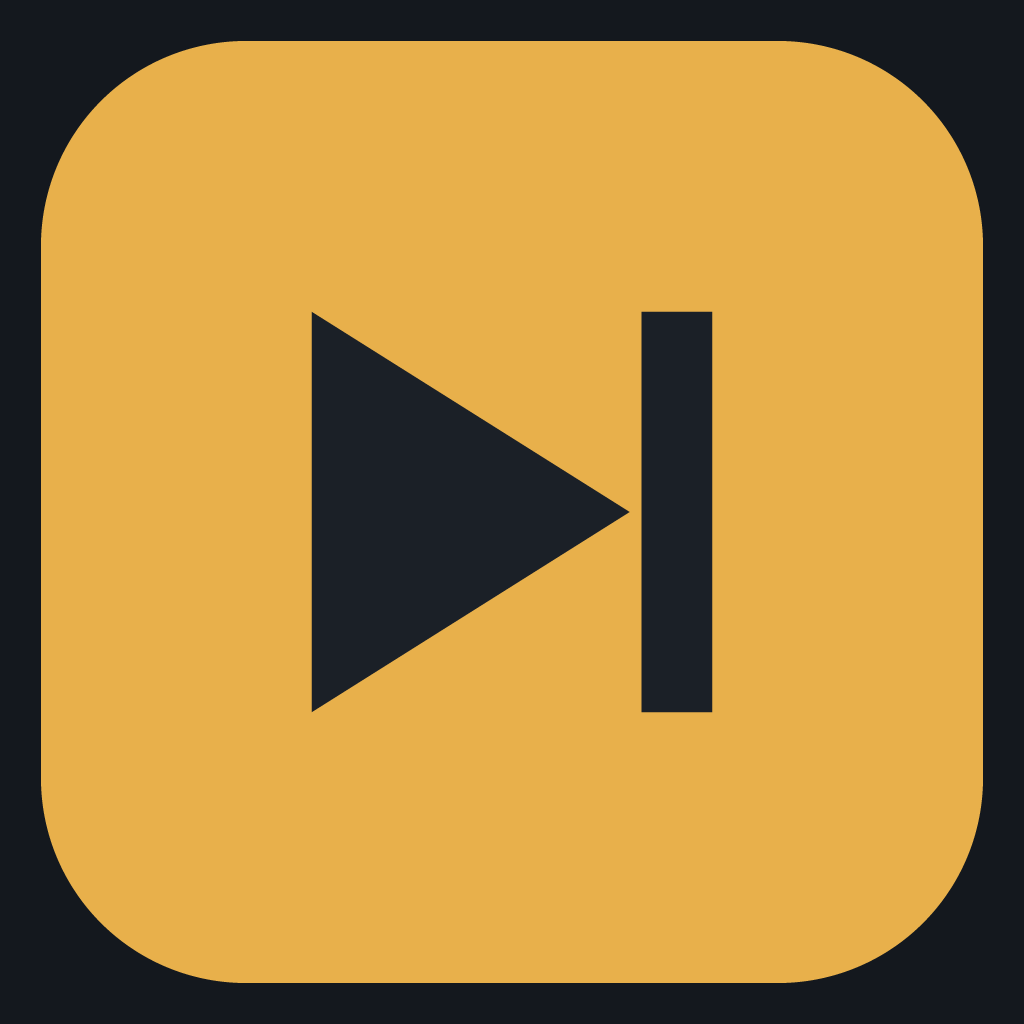
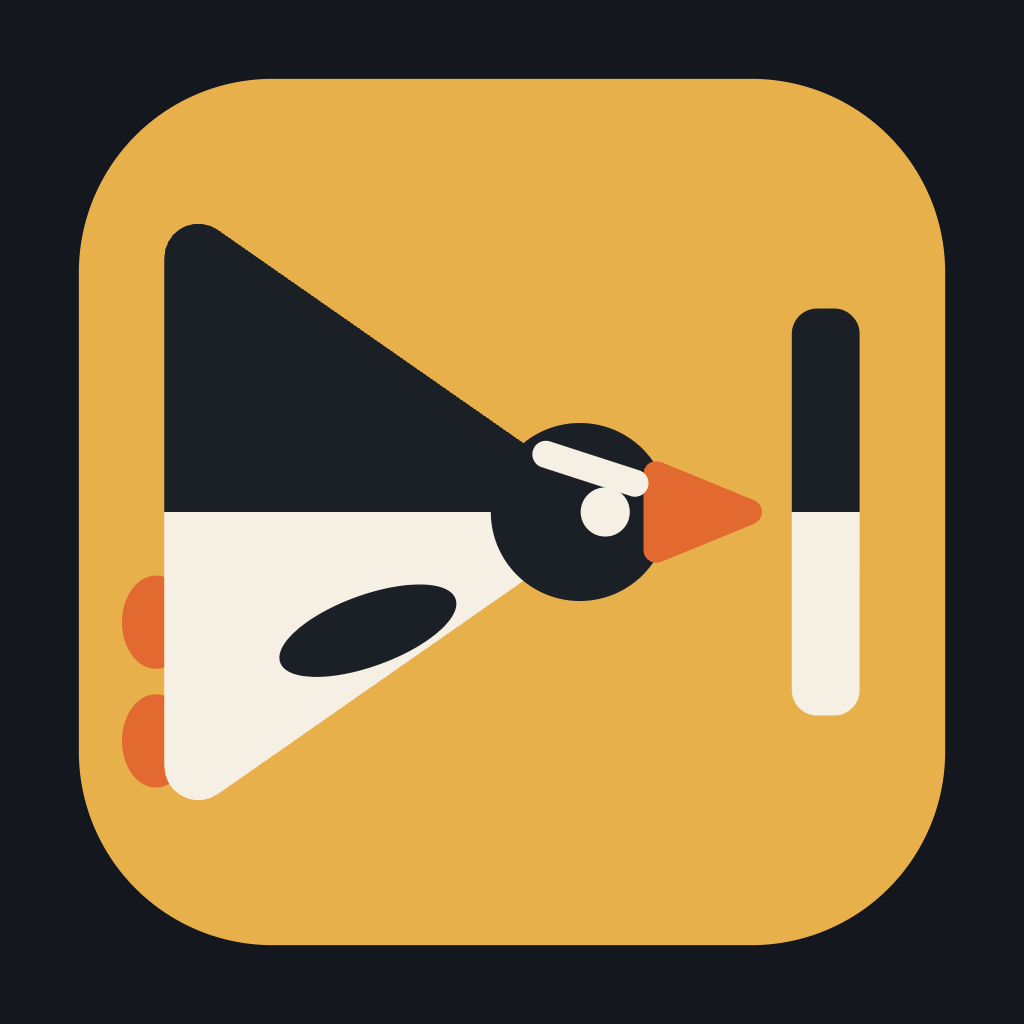
feat(brand): a penguin sliding forward as the skip glyph
The mark is now one drawing in tools/make-icons.mjs, rendered to every icon: the
amber key with the play triangle as a tuxedo penguin sliding forward on its
belly (round head, stern brow, orange beak pointing at the skip bar). Original
drawing, no one's character art. Also writes docs/brand/skipper.svg.

The controller's iOS icon pointed at the Expo template's default icon; it now
uses the same icon.png as everything else.

Changed region(s): [[0.0312, 0.0312, 0.9688, 0.9688], [0.375, 0.3438, 0.4688, 0.4062]]

diff --git a/apps/controller/app.config.ts b/apps/controller/app.config.ts
@@ -24,7 +24,7 @@ const config: ExpoConfig = {
   ios: {
     bundleIdentifier: 'dev.sandoramix.skipper',
     buildNumber: String(versionCode),
-    icon: './assets/expo.icon',
+    icon: './assets/images/icon.png',
     infoPlist: {
       NSLocalNetworkUsageDescription:
         'Skipper cerca il ricevitore sulla tua rete Wi-Fi per comandarlo senza passare da internet.',

diff --git a/docs/DEVELOPMENT.md b/docs/DEVELOPMENT.md
@@ -161,6 +161,15 @@ Things that differ from Chrome: the `WebView` node has no title text, and
 has no effect (see STATUS.md). Check what a click really did by dumping again
 (`url_bar` text, `episode-comment`, `player-cover`), not by the ack.
 
+## Icons
+
+Every icon is rendered from one drawing in `tools/make-icons.mjs` (the amber key
+with a penguin sliding forward, its body the play triangle, its beak pointing at the
+skip bar). `node tools/make-icons.mjs` rewrites the extension's and the
+controller's PNGs (it needs puppeteer, which the workspace already has); with
+`--svg` it also writes `docs/brand/skipper.svg`. The receiver's launcher icon is a
+separate vector drawable and is not generated.
+
 ## Conventions
 
 - Code comments in English; documentation in English; user-facing strings
